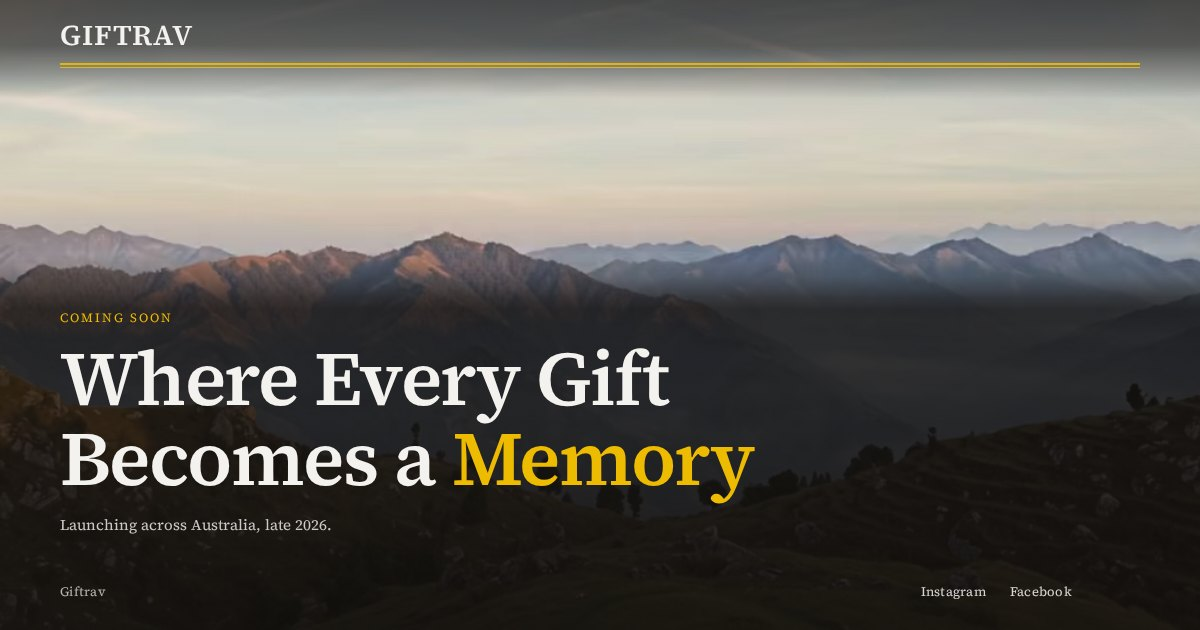
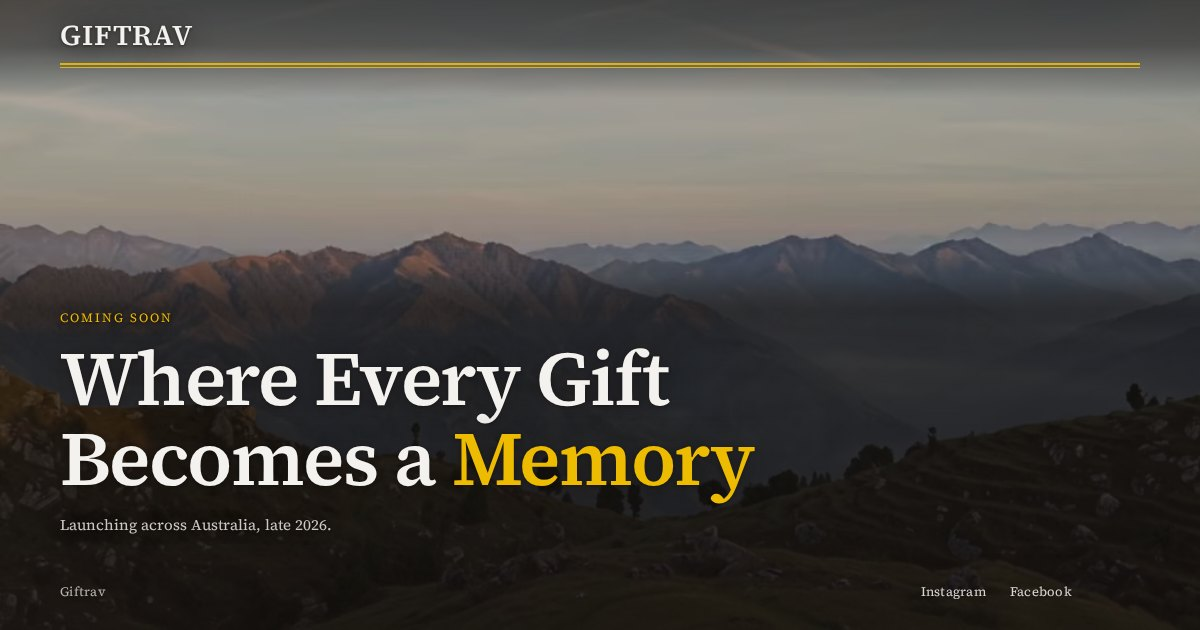
Add files via upload

diff --git a/index.html b/index.html
@@ -63,7 +63,10 @@
     --paper:      #f4f2ef;              /* body text on the dark field */
     --accent:     var(--color-process-yellow, #edbb00);  /* press yellow, the system's warm spot colour */
     --gutter:     clamp(22px, 5vw, 76px);
-    --media-h:    min(50svh, 72vw, 420px);  /* portrait: height of the image plate */
+    /* How far the plate behind the copy fades in. A fixed length, not a
+       percentage, so it is at full density by the time it reaches the
+       kicker on any screen height. */
+    --fade:       clamp(60px, 10vh, 150px);
   }
 
   * { box-sizing: border-box; }
@@ -96,10 +99,11 @@
 
   /* ---------------------------------------------------------------
      Stage
-     Mobile-first = the "split" layout: an image plate at the top, type
-     on a solid dark field below. This exists because the clip is
-     1440x608 (2.37:1); letting it cover a tall phone viewport would
-     throw away 80% of the frame and guarantee nothing about contrast.
+     The video is a full-bleed background at every size, with all type
+     overlaid on top of it. Legibility comes from two gradient plates
+     attached to the text blocks themselves (.masthead and .lede) plus
+     a shadow on the glyphs — not from a viewport-height gradient,
+     which drifts out from under the copy on short screens.
      --------------------------------------------------------------- */
   .stage {
     position: relative;
@@ -114,7 +118,13 @@
   .masthead {
     position: relative;
     z-index: 2;
-    padding: clamp(18px, 3.4vh, 30px) var(--gutter) 0;
+    padding: clamp(18px, 3.4vh, 30px) var(--gutter) clamp(30px, 5vh, 60px);
+    /* Plate sized by the masthead, not the window. */
+    background: linear-gradient(to bottom,
+      rgba(20,16,14,0.62) 0%,
+      rgba(20,16,14,0.52) 46%,
+      rgba(20,16,14,0.26) 74%,
+      rgba(20,16,14,0.00) 100%);
   }
 
   .wordmark {
@@ -126,6 +136,7 @@
     line-height: 1;
     letter-spacing: 0.03em;
     color: var(--paper);
+    text-shadow: 0 1px 3px rgba(20,16,14,0.55), 0 2px 22px rgba(20,16,14,0.75);
   }
 
   /* Broadsheet's front-page furniture: the one place the system prints a rule. */
@@ -138,13 +149,11 @@
     opacity: 0.9;
   }
 
-  /* ---- image plate ---------------------------------------------- */
+  /* ---- background video ------------------------------------------ */
   .media {
-    position: relative;
+    position: absolute;
+    inset: 0;
     z-index: 0;
-    flex: 0 0 auto;
-    height: var(--media-h);
-    margin-top: clamp(16px, 2.6vh, 26px);
     background: var(--ink) url("media/poster.jpg") center/cover no-repeat;
   }
 
@@ -154,24 +163,20 @@
     height: 100%;
     object-fit: cover;
     object-position: center;
-    /* A light warm grade only — the sunrise already has the colour.
-       No sepia, no hue-rotate: the previous wash removed the reason
-       for using this footage. */
-    filter: saturate(1.06) contrast(1.03);
+    /* A light warm grade, plus a small overall brightness cut so the
+       image sits behind the type rather than competing with it.
+       No sepia, no hue-rotate: the old wash removed the reason for
+       using this footage in the first place. */
+    filter: saturate(1.08) contrast(1.02) brightness(0.88);
   }
 
+  /* An even veil over the whole frame — keeps the picture fully visible
+     while lifting every part of it away from white text. */
   .scrim {
     position: absolute;
     inset: 0;
     pointer-events: none;
-    background:
-      linear-gradient(to bottom,
-        rgba(20,16,14,0.28) 0%,
-        rgba(20,16,14,0.00) 26%,
-        rgba(20,16,14,0.00) 52%,
-        rgba(32,30,29,0.55) 80%,
-        rgba(32,30,29,0.92) 95%,
-        rgb(32,30,29)       99%);
+    background: rgba(20,16,14,0.20);
   }
 
   /* ---- type ------------------------------------------------------ */
@@ -181,14 +186,22 @@
     flex: 1 1 auto;
     display: flex;
     flex-direction: column;
-    justify-content: center;
+    justify-content: flex-end;   /* copy anchors to the bottom at every size */
   }
 
+  /* Plate under the copy. Fades in over a fixed distance, so it is at
+     full density where the kicker starts whatever the screen height. */
   .lede {
     display: flex;
     flex-direction: column;
     gap: clamp(14px, 2.2vh, 22px);
-    padding: clamp(26px, 4.5vh, 52px) var(--gutter);
+    padding: var(--fade) var(--gutter) clamp(18px, 2.6vh, 36px);
+    background: linear-gradient(to bottom,
+      rgba(20,16,14,0.00) 0,
+      rgba(20,16,14,0.26) calc(var(--fade) * 0.42),
+      rgba(20,16,14,0.56) calc(var(--fade) * 0.78),
+      rgba(20,16,14,0.66) var(--fade),
+      rgba(20,16,14,0.70) 100%);
   }
 
   .kicker {
@@ -198,6 +211,7 @@
     letter-spacing: 0.16em;
     text-transform: uppercase;
     color: var(--accent);
+    text-shadow: 0 1px 2px rgba(20,16,14,0.7), 0 1px 14px rgba(20,16,14,0.8);
   }
 
   .display {
@@ -210,6 +224,7 @@
     letter-spacing: -0.02em;
     text-wrap: balance;
     color: var(--paper);
+    text-shadow: 0 1px 3px rgba(20,16,14,0.45), 0 3px 30px rgba(20,16,14,0.7);
   }
 
   .display .accent { color: var(--accent); }
@@ -226,6 +241,7 @@
     font-size: clamp(15px, 1.25vw, 19px);
     line-height: 1.55;
     color: color-mix(in srgb, var(--paper) 82%, transparent);
+    text-shadow: 0 1px 2px rgba(20,16,14,0.7), 0 1px 14px rgba(20,16,14,0.8);
   }
 
   /* ---- footer ---------------------------------------------------- */
@@ -242,6 +258,8 @@
     font-size: 13px;
     letter-spacing: 0.02em;
     color: color-mix(in srgb, var(--paper) 72%, transparent);
+    background: rgba(20,16,14,0.70);
+    text-shadow: 0 1px 2px rgba(20,16,14,0.7);
   }
 
   .socials {
@@ -282,75 +300,17 @@
   .motion-toggle[aria-pressed="true"] .i-play  { display: block; }
   .motion-toggle[aria-pressed="true"] .i-pause { display: none; }
 
-  /* Small phones in portrait: not enough vertical room for the plate at
-     its full height plus the type. Shrink the plate first — the type is
-     what the page is for. Keeps the footer inside the viewport at 320x568. */
+  /* Small phones: keep the whole composition inside the viewport. */
   @media (max-aspect-ratio: 6/5) and (max-height: 700px) {
-    :root { --media-h: min(34svh, 52vw); }
-    .display { font-size: clamp(29px, 8.2vw, 40px); }
-    .sub     { font-size: 14px; }
-    .lede    { gap: 10px; padding-top: 18px; padding-bottom: 18px; }
-    .masthead { padding-top: 14px; }
+    .display  { font-size: clamp(29px, 8.2vw, 40px); }
+    .sub      { font-size: 14px; }
+    .lede     { gap: 10px; --fade: 52px; padding-bottom: 16px; }
+    .masthead { padding-top: 14px; padding-bottom: 22px; }
   }
 
-  /* ===============================================================
-     Landscape / wide: the viewport is close enough to the clip's own
-     2.37:1 that a full-bleed hero keeps most of the frame. Type moves
-     onto the image and anchors to the bottom, where the scrim is
-     densest — so contrast holds on every frame of the loop rather
-     than depending on what happens to be on screen.
-     =============================================================== */
+  /* Wide enough that the headline can hold two long lines: apply the
+     hard break, and let the measure run wider. */
   @media (min-aspect-ratio: 6/5) {
-    .media {
-      position: absolute;
-      inset: 0;
-      z-index: 0;
-      height: 100%;
-      margin-top: 0;
-    }
-
-    /* The scrim is now only a gentle vignette. Legibility is not its job —
-       it belongs to the plates below, which are attached to the text
-       blocks. Tying contrast to viewport percentages is what broke on
-       short and landscape-phone viewports: the copy moved, the gradient
-       didn't. These plates move with the copy. */
-    .scrim {
-      background: linear-gradient(to bottom,
-        rgba(20,16,14,0.14) 0%,
-        rgba(20,16,14,0.00) 28%,
-        rgba(20,16,14,0.00) 68%,
-        rgba(20,16,14,0.22) 100%);
-    }
-
-    /* Plate under the masthead — sized by the masthead, not the window. */
-    .masthead {
-      padding-bottom: clamp(30px, 5vh, 60px);
-      background: linear-gradient(to bottom,
-        rgba(20,16,14,0.66) 0%,
-        rgba(20,16,14,0.58) 46%,
-        rgba(20,16,14,0.30) 74%,
-        rgba(20,16,14,0.00) 100%);
-    }
-
-    main { justify-content: flex-end; }
-
-    /* Plate under the copy. The fade-in distance is a fixed length, so
-       by the time the gradient reaches the kicker it is always at full
-       density — on a 1440x600 as much as on a 1920x1080. */
-    .lede {
-      --fade: clamp(56px, 9vh, 130px);
-      padding-top: var(--fade);
-      padding-bottom: clamp(18px, 2.6vh, 36px);
-      background: linear-gradient(to bottom,
-        rgba(20,16,14,0.00) 0,
-        rgba(20,16,14,0.30) calc(var(--fade) * 0.42),
-        rgba(20,16,14,0.66) calc(var(--fade) * 0.78),
-        rgba(20,16,14,0.78) var(--fade),
-        rgba(20,16,14,0.82) 100%);
-    }
-
-    footer { background: rgba(20,16,14,0.82); }
-
     .display { max-width: 17ch; }
     .display .brk { display: inline; }
   }

diff --git a/README.md b/README.md
@@ -19,6 +19,33 @@ favicon.svg, favicon-32.png, apple-touch-icon.png
 .nojekyll                   stops GitHub Pages running the files through Jekyll
 ```
 
+## Layout
+
+The video is a full-bleed background at every screen size, with all type overlaid
+on top of it. Legibility comes from three light layers rather than one heavy one,
+so the picture stays visible: a 20% veil over the whole frame, a gradient plate
+attached to each text block (`.masthead` and `.lede`), and a shadow on the glyphs.
+
+The plates fade in over a **fixed length** (`--fade`), not a percentage of the
+viewport. That matters: a percentage-based gradient drifts out from under the copy
+on short screens, which is how text ends up unreadable on a laptop but fine on a
+desktop.
+
+One trade-off worth knowing. The clip is 1440x608 — 2.37:1, nearly cinemascope. On
+a tall phone, `object-fit: cover` therefore shows only part of the frame's width:
+
+| Viewport | Frame visible |
+|---|---|
+| 390x844 phone | 20% |
+| 768x1024 tablet | 32% |
+| 1440x900 desktop | 68% |
+| 844x390 phone landscape | 91% |
+| 2560x1080 ultrawide | 100% |
+
+It reads fine because the footage is a wide, even mountain scene with no single
+subject to lose. If you shoot new footage for this page, export a portrait crop too
+and swap it in below a 6:5 aspect ratio.
+
 ## Two things to know before editing
 
 **Don't put files starting with `_` in this repo.** GitHub Pages runs Jekyll by
